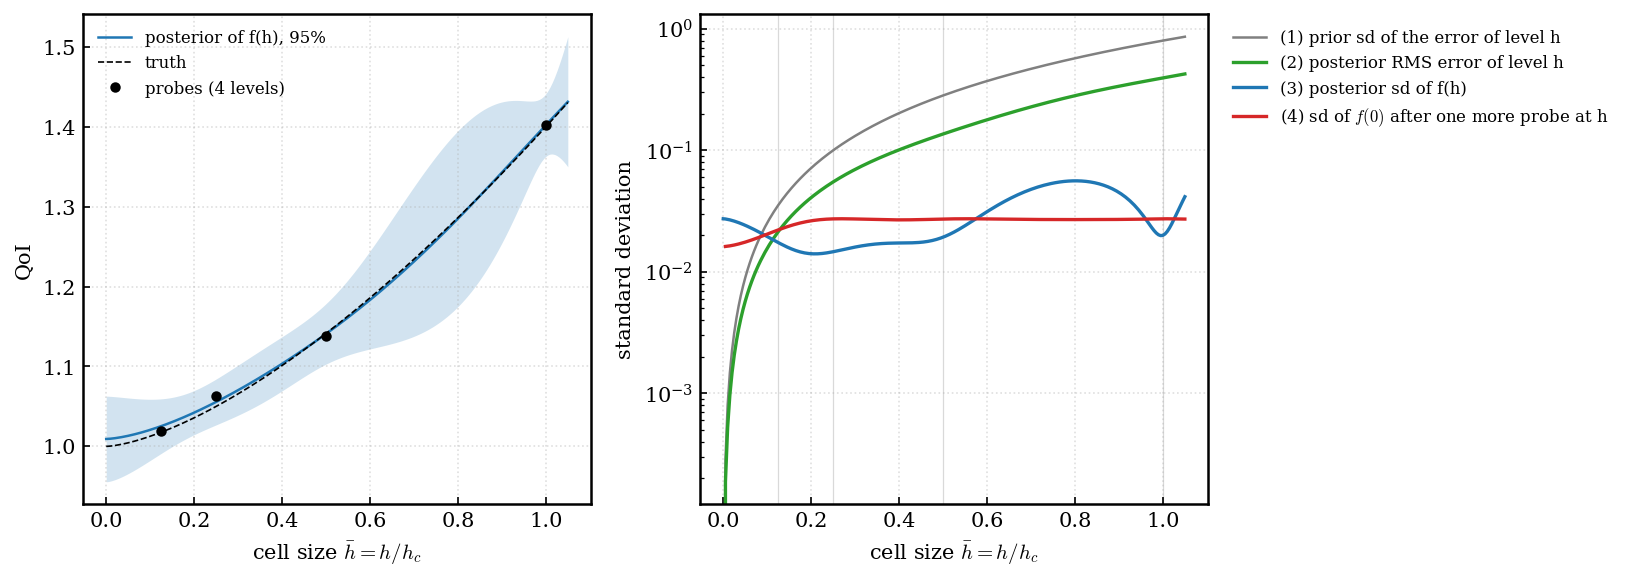
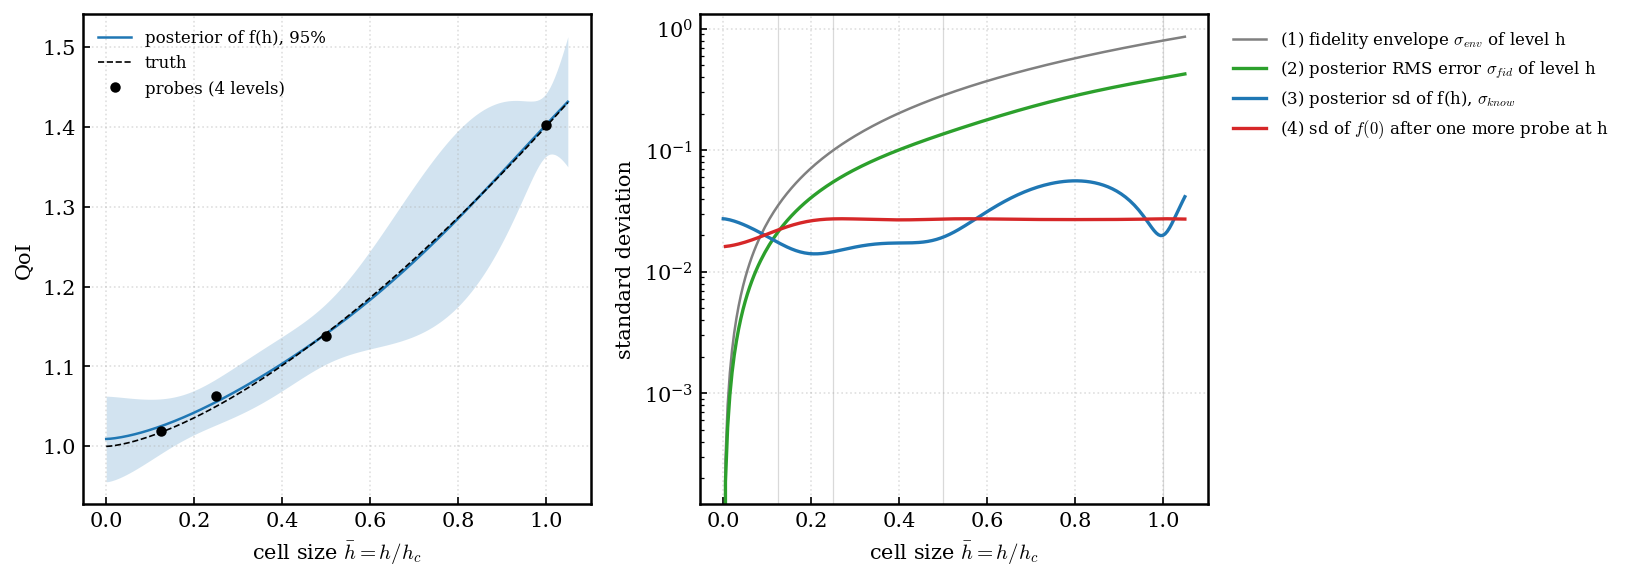
fig: sigma_concepts legend names sigma_env / sigma_fid / sigma_know
Claude-Session: https://claude.ai/code/session_01YAKLKMs5oUYu8r6RenvudK

Changed region(s): [[0.7366, 0.031, 0.9822, 0.2478]]

diff --git a/scripts/plot_sigma_concepts.py b/scripts/plot_sigma_concepts.py
@@ -72,9 +72,9 @@ def main():
     a1.grid(**fs.GRID_KW)
     a1.legend(loc="upper left", frameon=False, fontsize=8)
 
-    a2.plot(hg, prior_sd, color="0.5", lw=1.2, label="(1) prior sd of the error of level h")
-    a2.plot(hg, rms_err, color="#2ca02c", lw=1.6, label="(2) posterior RMS error of level h")
-    a2.plot(hg, np.sqrt(v_f), color="#1f77b4", lw=1.6, label="(3) posterior sd of f(h)")
+    a2.plot(hg, prior_sd, color="0.5", lw=1.2, label=r"(1) fidelity envelope $\sigma_{env}$ of level h")
+    a2.plot(hg, rms_err, color="#2ca02c", lw=1.6, label=r"(2) posterior RMS error $\sigma_{fid}$ of level h")
+    a2.plot(hg, np.sqrt(v_f), color="#1f77b4", lw=1.6, label=r"(3) posterior sd of f(h), $\sigma_{know}$")
     a2.plot(hg[1:], sd_mu_next, color="#d62728", lw=1.6,
             label=r"(4) sd of $f(0)$ after one more probe at h")
     for h in HD:
